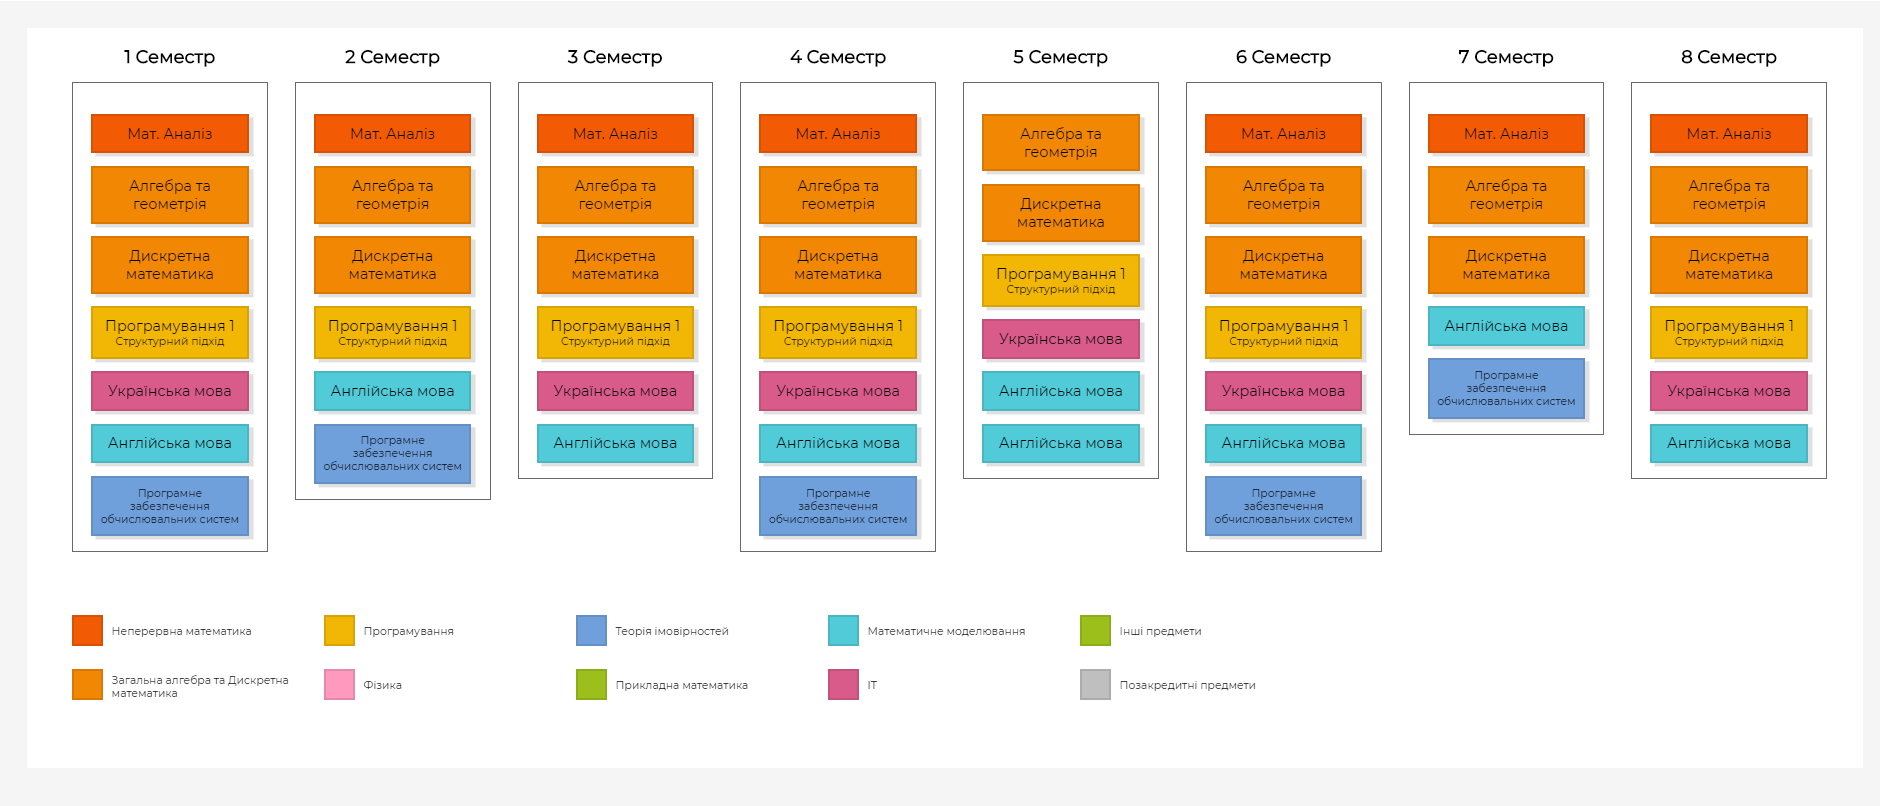
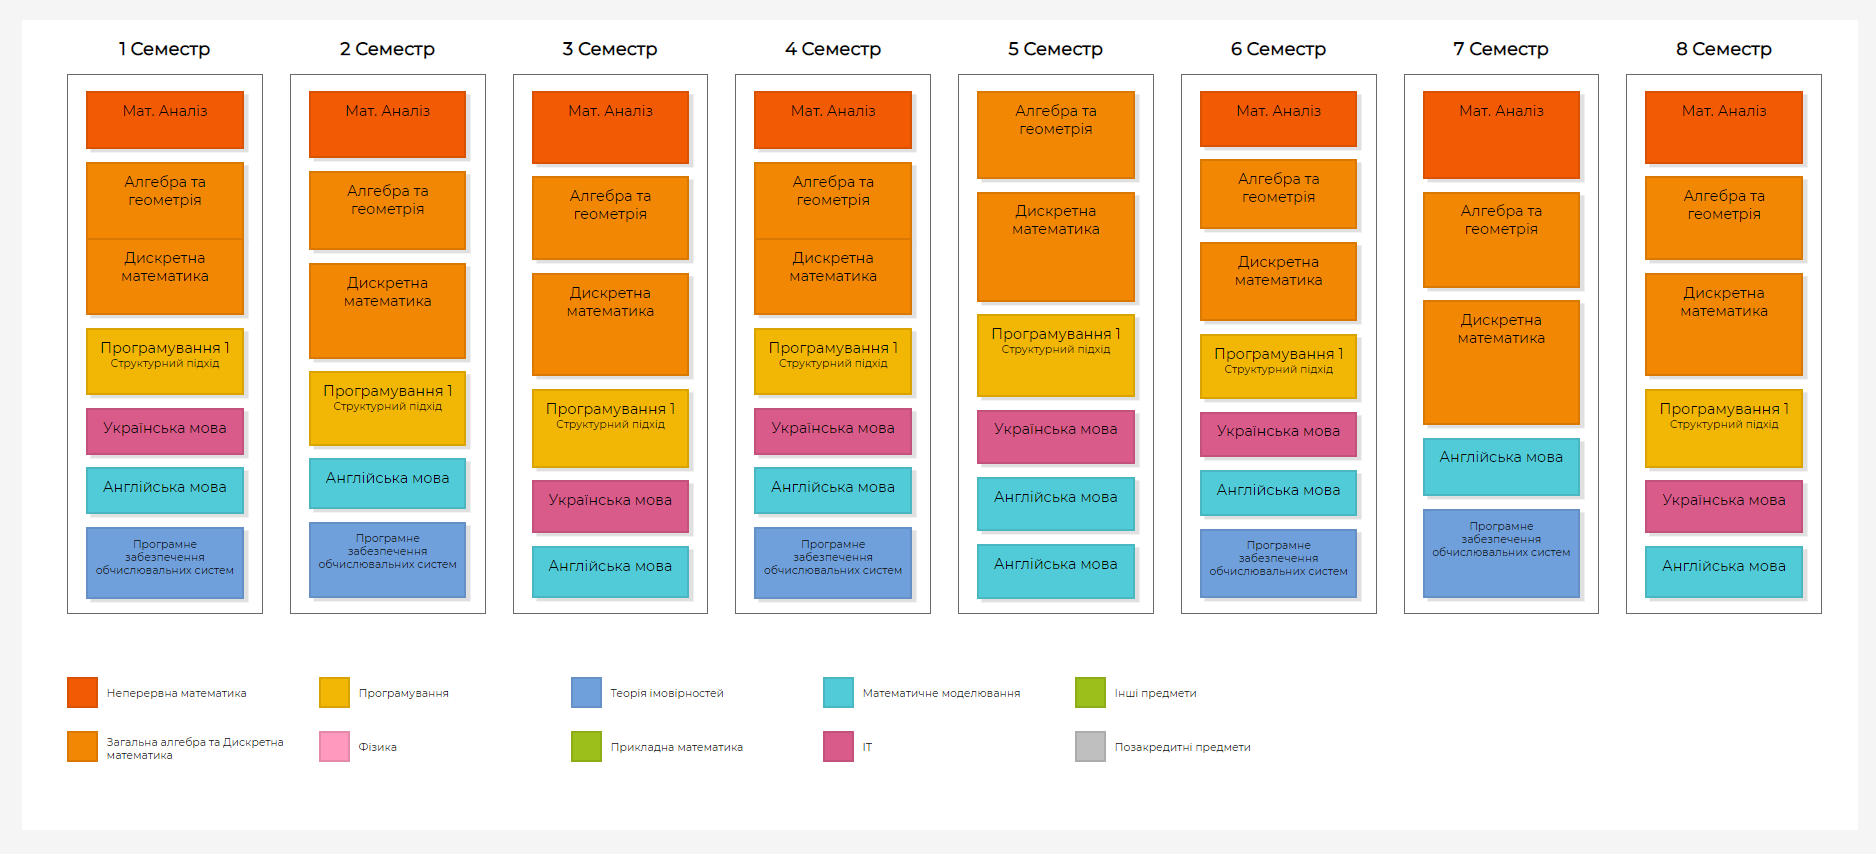
A bit of work on different heights. Subject grouping is ready.

diff --git a/index.html b/index.html
@@ -62,17 +62,21 @@
                 let term_box = styled_div("term-box");
 
                 let subj_group = styled_div("subject-group");
+                let group_height = 0;
 
-                let curr_group;
+                let curr_group = -1;
                 for (let subj of term_subjs) {
-                    if (!subj.group || subj.type !== curr_group) {
+                    if (!subj.group || subj.group !== curr_group) {
+                        if (curr_group !== -1) {
+                            subj_group.style.flexGrow = "" + group_height;
+                            term_box.appendChild(subj_group);
+                            subj_group = styled_div("subject-group");
+                            group_height = 0;
+                        }
                         curr_group = subj.group;
-                        term_box.appendChild(subj_group);
-                        subj_group = styled_div("subject-group");
                     }
                     let subj_dom = styled_div("subject");
-                    if (subj.type)
-                        subj_dom.className += " subj-" + subj.type;
+                    subj_dom.className += " subj-" + subj.type;
 
                     let subj_title = styled_div(
                         subj.title.length < params.title_max_len ? "subj-title" : "subj-subtitle"
@@ -86,10 +90,12 @@
                         subj_dom.appendChild(subj_subtitle);
                     }
 
-                    subj_dom.style.height = (100.0 * subj.credits / term.total_credits) + "%";  // TODO
+                    group_height += subj.credits;
+                    subj_dom.style.flexGrow = "" + subj.credits;
 
                     subj_group.appendChild(subj_dom);
                 }
+                subj_group.style.flexGrow = "" + group_height;
                 term_box.appendChild(subj_group);
 
                 term_dom.appendChild(term_box);

diff --git a/sample_curriculum.js b/sample_curriculum.js
@@ -28,12 +28,14 @@ const sample_curriculum = [
             {
                 "title": "Алгебра та геометрія",
                 "type": 2,
-                "credits": 4
+                "credits": 4,
+                "group": 1
             },
             {
                 "title": "Дискретна математика",
                 "type": 2,
-                "credits": 7
+                "credits": 7,
+                "group": 1
             },
             {
                 "title": "Програмування 1",
@@ -138,12 +140,14 @@ const sample_curriculum = [
             {
                 "title": "Алгебра та геометрія",
                 "type": 2,
-                "credits": 4
+                "credits": 4,
+                "group": 1
             },
             {
                 "title": "Дискретна математика",
                 "type": 2,
-                "credits": 7
+                "credits": 7,
+                "group": 1
             },
             {
                 "title": "Програмування 1",

diff --git a/style.css b/style.css
@@ -21,7 +21,6 @@ body {
     box-sizing: border-box;
     padding-left: 1.5em;
     width: 12.5em;
-    /*height: 20em;*/
 }
 
 .term-title {
@@ -33,23 +32,28 @@ body {
 }
 
 .term-box {
+    display: flex;
+    align-items: stretch;
+    flex-direction: column;
     border: 1px solid dimgrey;
     padding: 1em 1em 0;
-    /*height: 40vw;*/
+    height: 30em;
     box-sizing: border-box;
 }
 
 .subject-group {
     padding-bottom: 0.8em;
+    display: flex;
+    flex-direction: column;
 }
 .subject {
     background-color: #F2B604;   /* default colour */
     padding: 0.5em 0.2em;
     margin-top: -0.1em;
     border: 0.1em solid rgba(0,0,0,0.1);
-    border-collapse: collapse;
     box-shadow: 4px 3px #e0e0e0;
     text-align: center;
+    height: 100%;
 }
 
 .subj-title {

diff --git a/readme.md b/readme.md
@@ -3,4 +3,4 @@ Generator of pretty tables written in HTML/CSS/Javascript. JSDoc documentation i
 
 - Main panel width - 100em
 - Term width (with padding) - 12.5em *(because we have 8-term curriculums)*
-- Subject height - calculated as `max_term_height * (subj.credits/term.total_credits)` (development in progress, now heights are equal)
+- Subject height - calculated as `max_term_height * (subj.credits/term.total_credits)` (development in progress, now height difference is too subtile)
